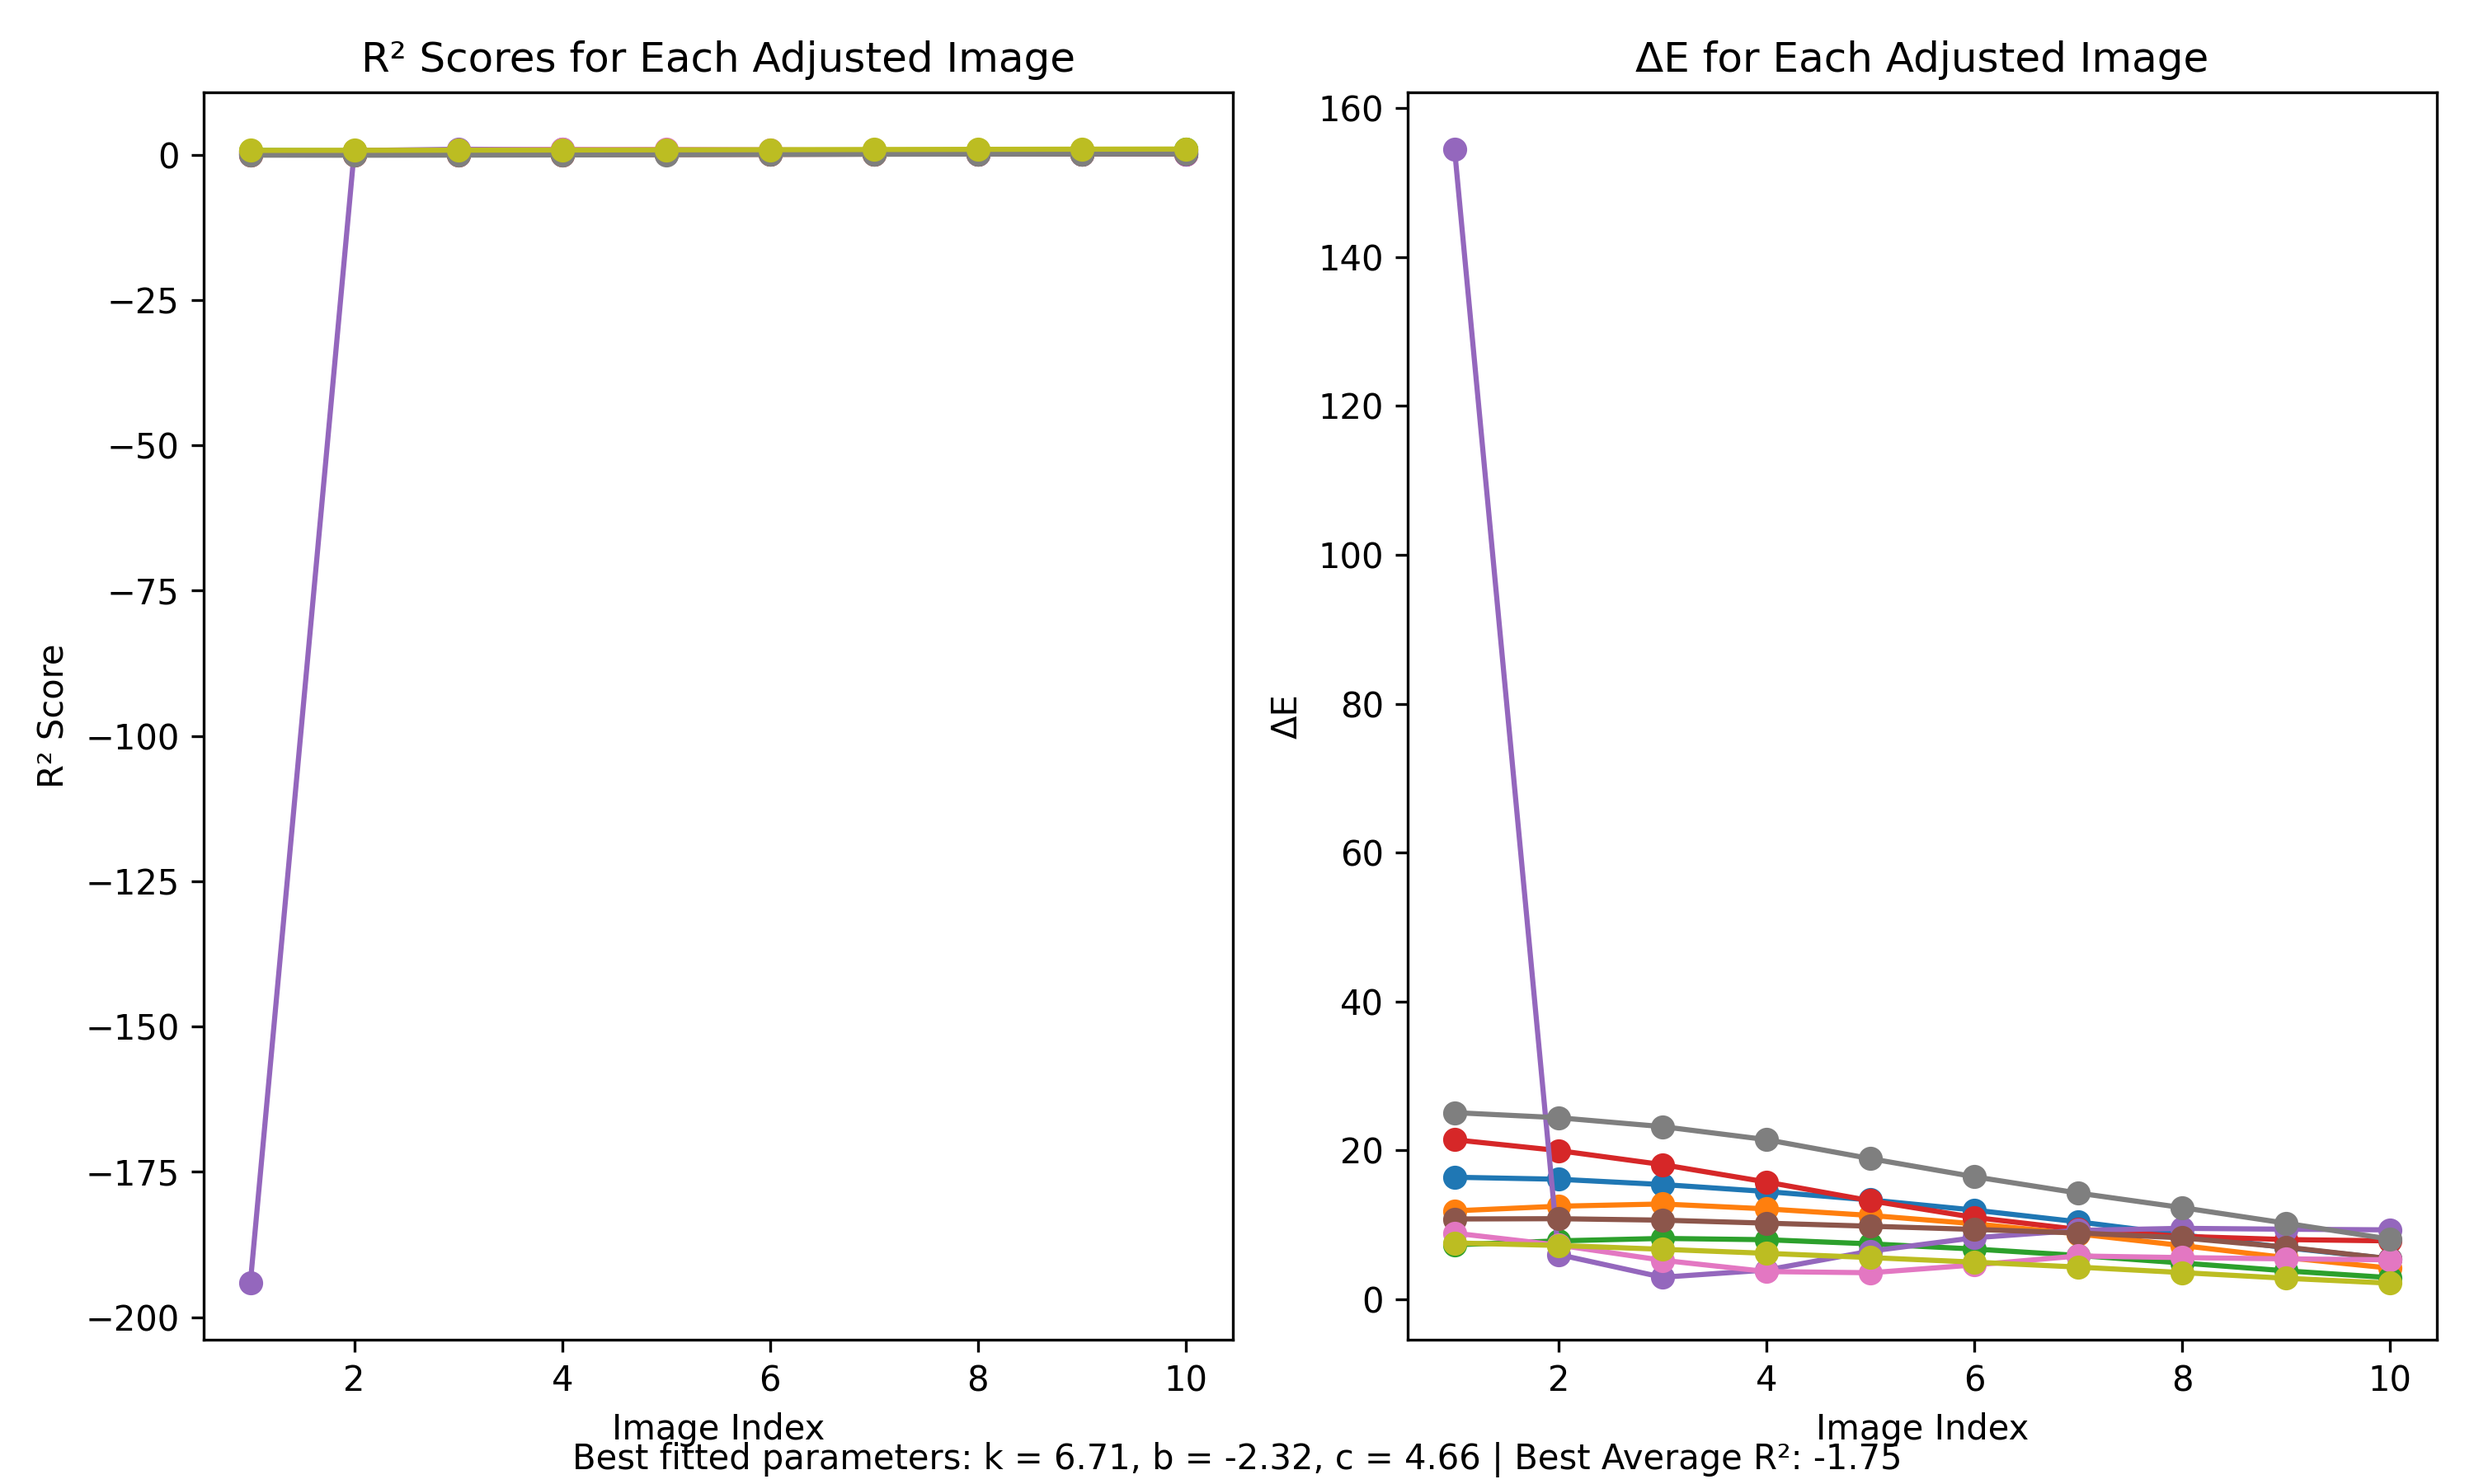
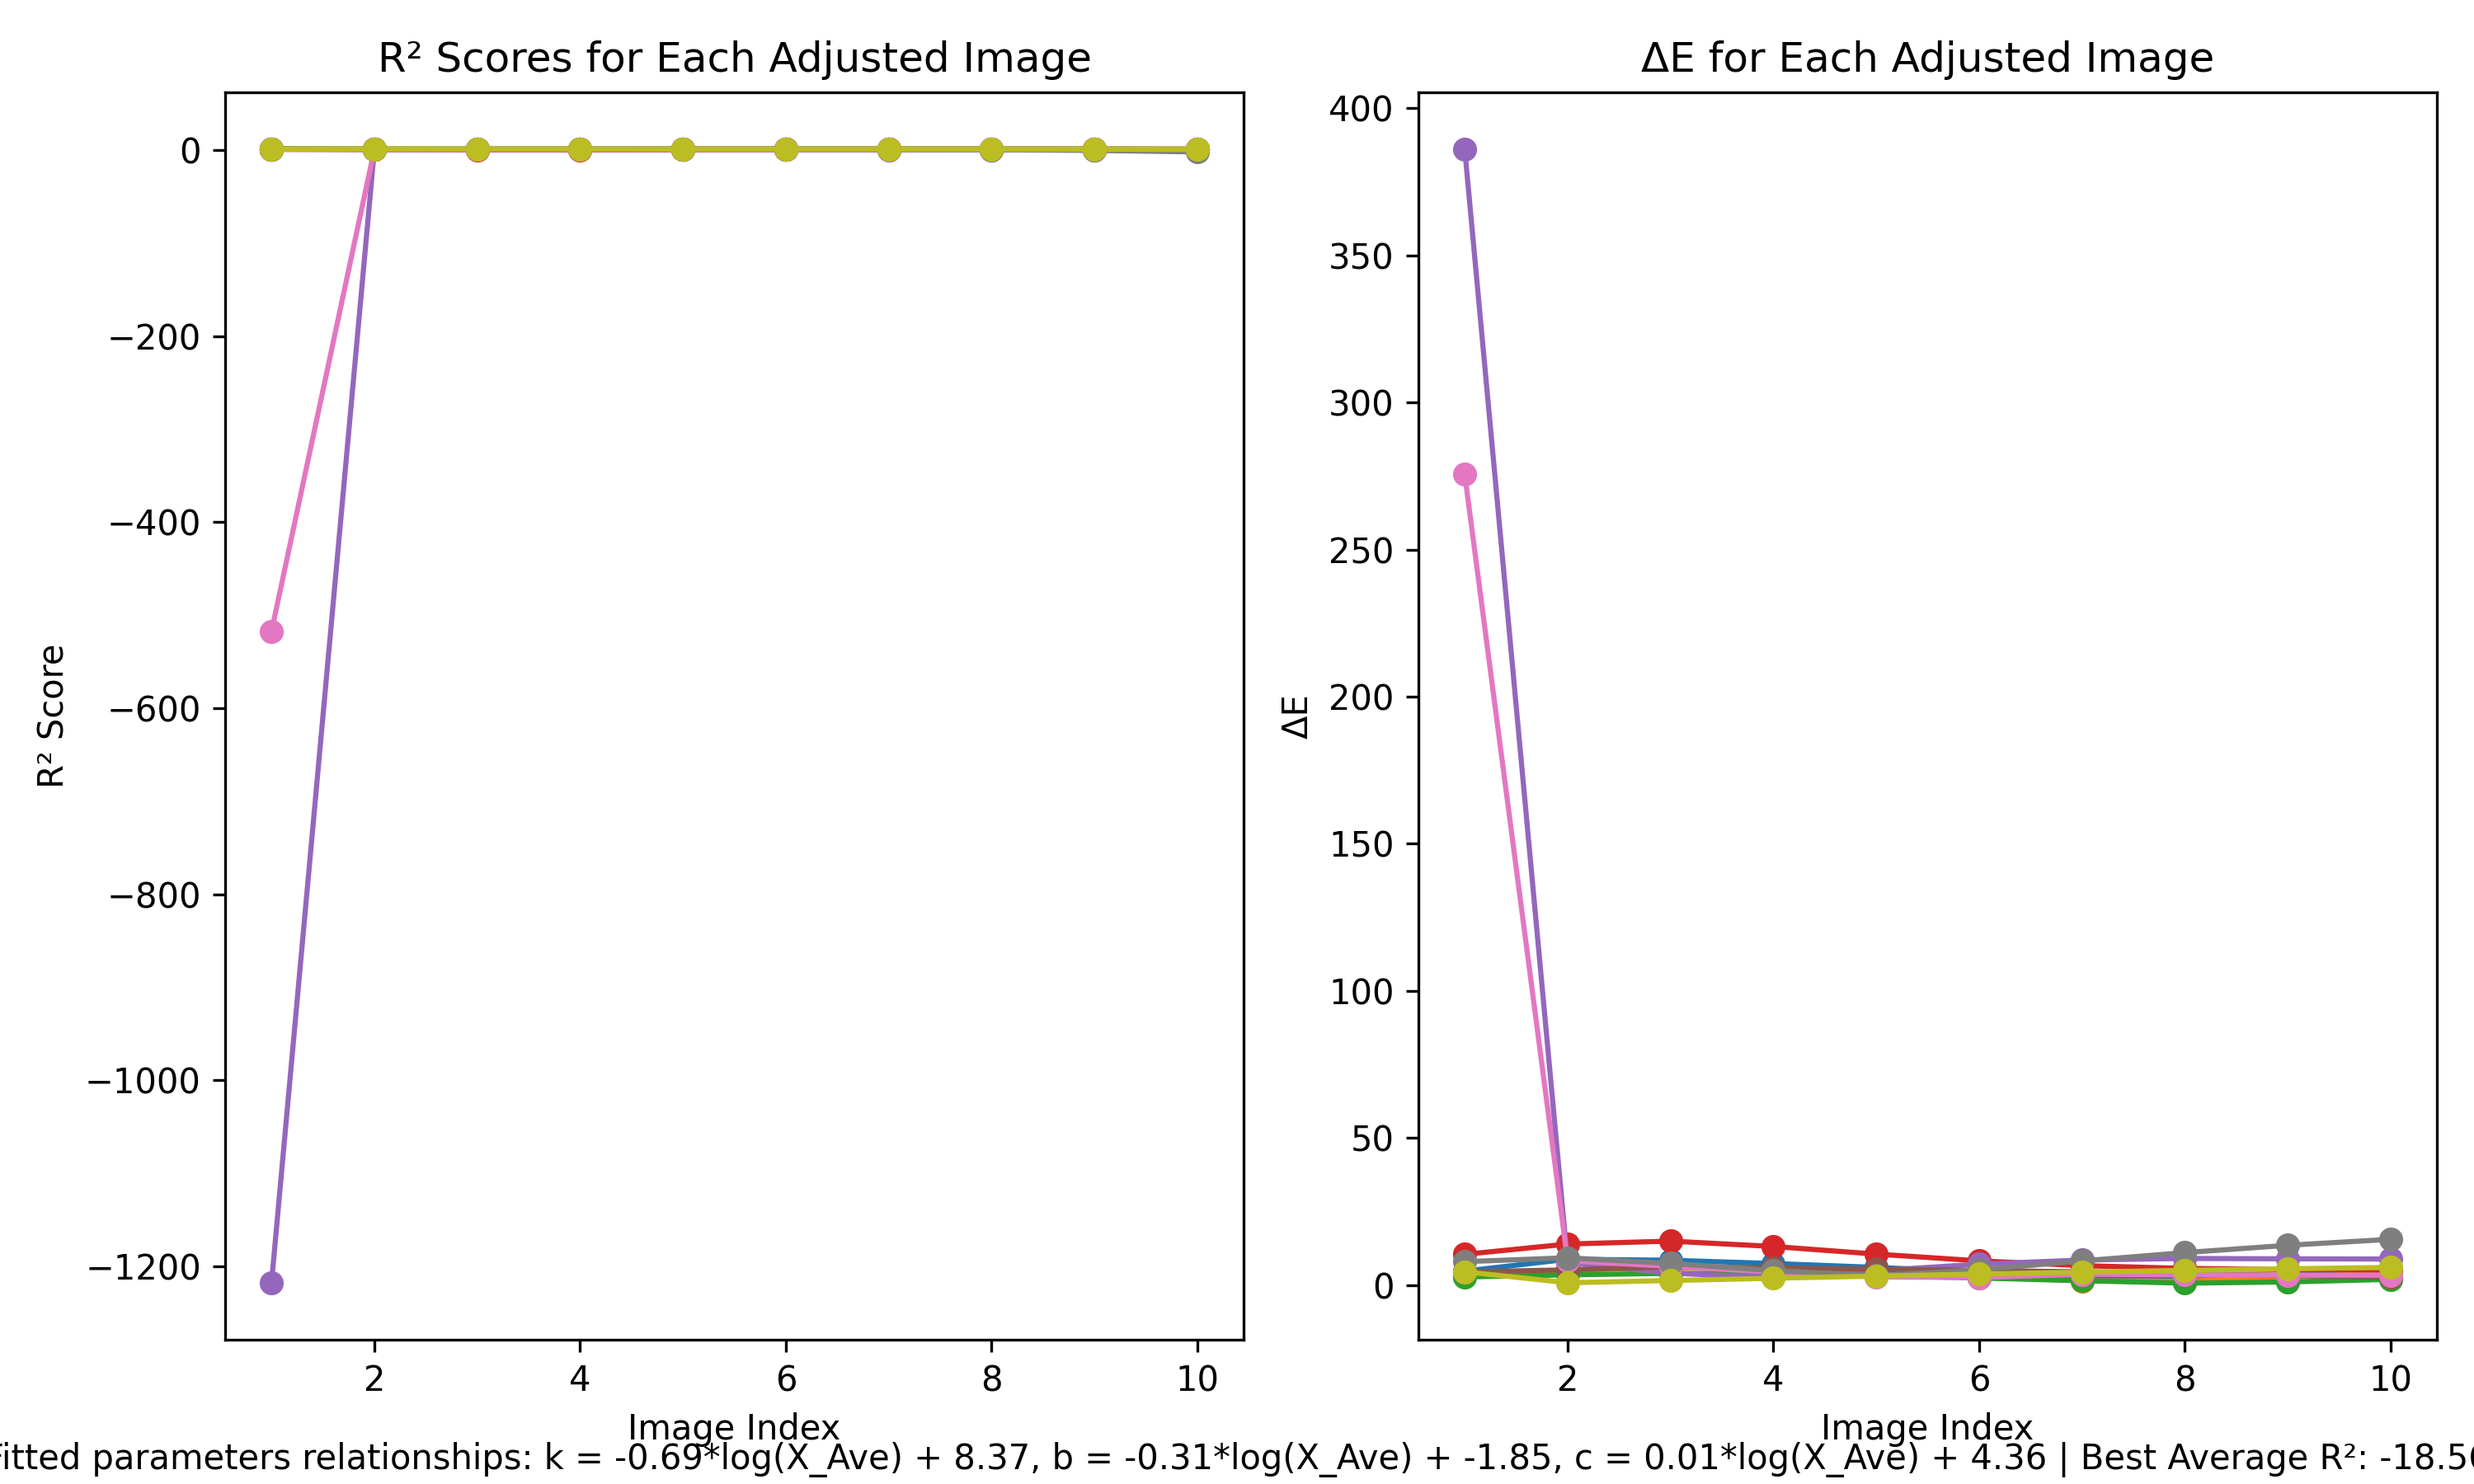
fit k, b, c with x_ave to get generalized model

diff --git a/HumanEyesAdaptator.py b/HumanEyesAdaptator.py
@@ -218,12 +218,9 @@ class HumanEyesAdaptator:
         plt.close()
         logging.info(f"Figure saved to {output_file}")
 
-def fit_and_compare(data_sets, fit_func, output_base_dir):
-    best_r2_avg = -np.inf
-    best_params = None
-    best_r2_scores = None
-    best_delta_Es = None
-    best_output_dir = None
+def fit_on_all_data_sets(data_sets, fit_func, output_base_dir):
+    all_params = []
+    luminance_values = []
 
     for data_set in data_sets:
         initial_png_file, adjusted_png_files, initial_luminance = data_set
@@ -231,31 +228,27 @@ def fit_and_compare(data_sets, fit_func, output_base_dir):
 
         # Fit gamma
         k, b, c, r2_avg, r2_scores, delta_Es = adaptator.fit()
+        all_params.append((k, b, c))
+        luminance_values.append(np.log(initial_luminance))  # Use log(initial_luminance) for fitting
 
-        # Save comparison images
-        output_dir = os.path.join(output_base_dir, os.path.basename(initial_png_file).split('.')[0])
-        sample_luminance_values = adaptator.generate_sample_luminance_values()
-        adaptator.save_comparison_images(output_dir, k, b, c, sample_luminance_values, r2_scores, delta_Es)
+    return all_params, luminance_values
 
-        # Visualize the fit and save the figure
-        output_file = os.path.join(output_dir, 'r2_and_delta_e.png')
-        adaptator.visualize_fit(k, b, c, r2_scores, delta_Es, output_file, r2_avg)
+def fit_relationships(all_params, luminance_values):
+    k_values, b_values, c_values = zip(*all_params)
 
-        # Compare and update the best fit
-        if r2_avg > best_r2_avg:
-            best_r2_avg = r2_avg
-            best_params = (k, b, c)
-            best_r2_scores = r2_scores
-            best_delta_Es = delta_Es
-            best_output_dir = output_dir
+    # Fit linear models for k, b, and c with respect to log(initial_luminance)
+    def linear_model(x, m, c):
+        return m * x + c
 
-    print(f"Best fitted parameters: k = {best_params[0]}, b = {best_params[1]}, c = {best_params[2]}")
-    print(f"Best Average R²: {best_r2_avg}")
+    k_params, _ = curve_fit(linear_model, luminance_values, k_values)
+    b_params, _ = curve_fit(linear_model, luminance_values, b_values)
+    c_params, _ = curve_fit(linear_model, luminance_values, c_values)
 
-    return best_params, best_r2_avg, best_r2_scores, best_delta_Es, best_output_dir
+    return k_params, b_params, c_params
 
-def apply_best_fit_to_all_data(data_sets, best_params, output_base_dir):
-    k, b, c = best_params
+def apply_generalized_model(data_sets, k_params, b_params, c_params, output_base_dir):
+    def linear_model(x, m, c):
+        return m * x + c
 
     all_r2_scores = []
     all_delta_Es = []
@@ -264,8 +257,14 @@ def apply_best_fit_to_all_data(data_sets, best_params, output_base_dir):
         initial_png_file, adjusted_png_files, initial_luminance = data_set
         adaptator = HumanEyesAdaptator(initial_png_file, adjusted_png_files, initial_luminance, "gamma")
         
+        # Calculate k, b, and c using the fitted relationships
+        log_luminance = np.log(initial_luminance)
+        k = linear_model(log_luminance, *k_params)
+        b = linear_model(log_luminance, *b_params)
+        c = linear_model(log_luminance, *c_params)
+        
         # Save adjusted images using best fit parameters
-        output_dir = os.path.join(output_base_dir, 'adjusted_with_best_fit', os.path.basename(initial_png_file).split('.')[0])
+        output_dir = os.path.join(output_base_dir, 'adjusted_with_generalized_model', os.path.basename(initial_png_file).split('.')[0])
         sample_luminance_values = adaptator.generate_sample_luminance_values()
 
         r2_scores = []
@@ -291,7 +290,7 @@ def apply_best_fit_to_all_data(data_sets, best_params, output_base_dir):
 
     return all_r2_scores, all_delta_Es
 
-def visualize_best_fit_results(all_r2_scores, all_delta_Es, output_file, best_params, best_r2_avg):
+def visualize_best_fit_results(all_r2_scores, all_delta_Es, output_file, k_params, b_params, c_params, r2_avg):
     plt.figure(figsize=(10, 6))
 
     for r2_scores, delta_Es in zip(all_r2_scores, all_delta_Es):
@@ -310,7 +309,7 @@ def visualize_best_fit_results(all_r2_scores, all_delta_Es, output_file, best_pa
         plt.title('ΔE for Each Adjusted Image')
 
     # Add best parameters and average R² to the plot
-    plt.figtext(0.5, 0.01, f'Best fitted parameters: k = {best_params[0]:.2f}, b = {best_params[1]:.2f}, c = {best_params[2]:.2f} | Best Average R²: {best_r2_avg:.2f}', ha='center', fontsize=10)
+    plt.figtext(0.5, 0.01, f'Fitted parameters relationships: k = {k_params[0]:.2f}*log(X_Ave) + {k_params[1]:.2f}, b = {b_params[0]:.2f}*log(X_Ave) + {b_params[1]:.2f}, c = {c_params[0]:.2f}*log(X_Ave) + {c_params[1]:.2f} | Best Average R²: {r2_avg:.2f}', ha='center', fontsize=10)
     
     plt.tight_layout()
     plt.savefig(output_file, dpi=300)
@@ -458,72 +457,15 @@ data_sets = [
     # Add more data sets here
 ]
 
-def fit_on_all_data_sets(data_sets, fit_func, output_base_dir):
-    all_params = []
+# Fit on all data sets separately to get individual k, b, and c values
+all_params, luminance_values = fit_on_all_data_sets(data_sets, "gamma", output_base_dir)
 
-    for data_set in data_sets:
-        initial_png_file, adjusted_png_files, initial_luminance = data_set
-        adaptator = HumanEyesAdaptator(initial_png_file, adjusted_png_files, initial_luminance, fit_func)
+# Fit relationships of k, b, and c with log(initial_luminance)
+k_params, b_params, c_params = fit_relationships(all_params, luminance_values)
 
-        # Fit gamma
-        k, b, c, r2_avg, r2_scores, delta_Es = adaptator.fit()
-        all_params.append((k, b, c, r2_avg))
-
-    return all_params
-
-def evaluate_best_params(data_sets, all_params, output_base_dir):
-    best_r2_avg = -np.inf
-    best_params = None
-    best_r2_scores = None
-    best_delta_Es = None
-    best_output_dir = None
-
-    for k, b, c, _ in all_params:
-        all_r2_scores = []
-        all_delta_Es = []
-
-        for data_set in data_sets:
-            initial_png_file, adjusted_png_files, initial_luminance = data_set
-            adaptator = HumanEyesAdaptator(initial_png_file, adjusted_png_files, initial_luminance, "gamma")
-
-            r2_scores = []
-            delta_Es = []
-
-            for i, y_file in enumerate(adjusted_png_files):
-                Y = adaptator.extract_luminance_from_png(y_file)
-                X_Ave = adaptator.X_Ave_values[i]
-
-                # Calculate adjusted luminance
-                Y_pred = adaptator.apply_brightness_adjustment(adaptator.X, X_Ave, k, b, c)
-
-                # Calculate R² and ΔE
-                r2 = r2_score(Y.ravel(), Y_pred.ravel())
-                delta_E = np.sqrt(mse(Y, Y_pred))
-                r2_scores.append(r2)
-                delta_Es.append(delta_E)
-
-            all_r2_scores.append(r2_scores)
-            all_delta_Es.append(delta_Es)
-
-        avg_r2 = np.mean([item for sublist in all_r2_scores for item in sublist])
-
-        if avg_r2 > best_r2_avg:
-            best_r2_avg = avg_r2
-            best_params = (k, b, c)
-            best_r2_scores = all_r2_scores
-            best_delta_Es = all_delta_Es
-
-    return best_params, best_r2_avg, best_r2_scores, best_delta_Es
-
-# Fit on all data sets separately
-all_params = fit_on_all_data_sets(data_sets, "gamma", output_base_dir)
-
-# Evaluate the best parameters across all data sets
-best_params, best_r2_avg, best_r2_scores, best_delta_Es = evaluate_best_params(data_sets, all_params, output_base_dir)
-
-# Apply the best fit to all data
-apply_best_fit_to_all_data(data_sets, best_params, output_base_dir)
+# Apply the generalized model to all data
+all_r2_scores, all_delta_Es = apply_generalized_model(data_sets, k_params, b_params, c_params, output_base_dir)
 
 # Visualize and save the R² and ΔE curve diagrams for all data
 output_file = os.path.join(output_base_dir, 'r2_and_delta_e_all_data.png')
-visualize_best_fit_results(best_r2_scores, best_delta_Es, output_file, best_params, best_r2_avg)
+visualize_best_fit_results(all_r2_scores, all_delta_Es, output_file, k_params, b_params, c_params, np.mean([item for sublist in all_r2_scores for item in sublist]))
